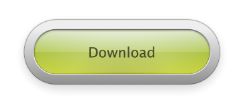
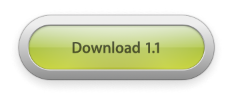
Updating Download Button for 1.1

Changed region(s): [[0.0601, 0.1165, 0.9313, 0.7864], [0.3004, 0.4078, 0.691, 0.5243]]

diff --git a/musicwidget/index.html b/musicwidget/index.html
@@ -134,11 +134,7 @@
 							 	style="max-width: 100%;" 
 							 	alt="Download Button">
 						</a>
-						
-						<br>
-						
-						<h5>Download Version 1.1</h5>
-						<p>Hei Suomi 🇫🇮 Hallo Deutschland 🇩🇪 Hola hispanohablantes 🇪🇸<br>Get the new update with support for Finnish, German, and Spanish.</p>
+						<p>Get the new update with support for Finnish, German, and Spanish.</p>
 						
 						
 					</div>
